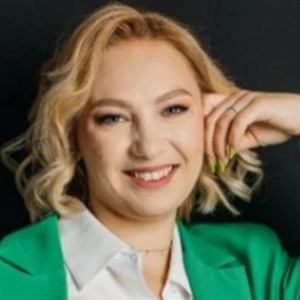
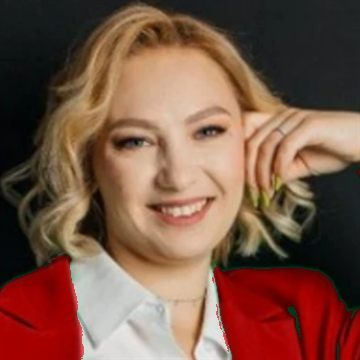
Add files via upload

Changed region(s): [[0.57, 0.72, 1.0, 1.0], [0.0, 0.69, 0.24, 1.0], [0.99, 0.45, 1.0, 0.51]]

diff --git a/invite/index.html b/invite/index.html
@@ -3,10 +3,10 @@
 <head>
 <meta charset="utf-8">
 <meta name="viewport" content="width=device-width, initial-scale=1, viewport-fit=cover">
-<title>Приглашение в Контент-дом</title>
-<meta name="description" content="Личное приглашение в Контент-дом от Антонины Алдатовой. Старт 2 ноября, 10 мест.">
-<meta property="og:title" content="Тебе приглашение в Контент-дом 🏡">
-<meta property="og:description" content="Личное приглашение от Антонины Алдатовой. Открой — твоя комната уже ждёт.">
+<title>Тебе посылка · Контент-дом</title>
+<meta name="description" content="Личная посылка от Антонины Алдатовой. Открой — внутри приглашение в Контент-дом.">
+<meta property="og:title" content="Тебе посылка 🎁">
+<meta property="og:description" content="Личная посылка от Антонины Алдатовой. Открой — внутри кое-что для тебя.">
 <meta property="og:image" content="https://antoninaal-cmyk.github.io/kontent-dom/hero.jpg">
 <meta property="og:type" content="website">
 <link rel="preconnect" href="https://fonts.googleapis.com">
@@ -14,117 +14,186 @@
 <style>
   :root{--black:#111010;--red:#C8161D;--red-d:#a50f15;--soft:#fdeeee;--bg:#F6F4F2;--grey:#6b6764;--shadow:0 6px 30px rgba(17,16,16,.08)}
   *{box-sizing:border-box;margin:0;padding:0}
-  html,body{min-height:100%}
-  body{font-family:Manrope,Arial,sans-serif;color:var(--black);background:radial-gradient(circle at 90% 4%,rgba(200,22,29,.16),rgba(200,22,29,0) 40%),radial-gradient(circle at 0% 100%,rgba(200,22,29,.08),rgba(200,22,29,0) 40%),var(--bg);overflow-x:hidden}
-  .wrap{max-width:560px;margin:0 auto;padding:22px 16px 40px;position:relative}
-  .top{display:flex;justify-content:space-between;align-items:center;margin-bottom:18px}
-  .name{font-family:'Amatic SC',sans-serif;font-weight:700;font-size:28px;letter-spacing:.5px;line-height:1}
-  .chip{font-size:11px;font-weight:800;letter-spacing:2px;text-transform:uppercase;color:var(--red);background:var(--soft);border-radius:999px;padding:8px 13px}
-  .card{background:#fff;border-radius:30px;box-shadow:var(--shadow);padding:28px 22px 26px;text-align:center;position:relative;animation:rise .9s cubic-bezier(.2,.8,.2,1) both}
-  @keyframes rise{from{opacity:0;transform:translateY(40px) scale(.97)}to{opacity:1;transform:none}}
-  .me{position:relative;width:190px;height:190px;margin:0 auto 18px}
-  .me .ring{position:absolute;inset:0;border-radius:50%;border:2.5px dashed var(--red);animation:spin 20s linear infinite}
-  .me .pic{position:absolute;inset:14px;border-radius:50%;overflow:hidden;border:6px solid #fff;box-shadow:0 14px 30px rgba(17,16,16,.16);background:#111;animation:float 4s ease-in-out infinite}
-  .me .pic img{width:100%;height:100%;object-fit:cover;object-position:50% 43%;transform:scale(2.1);transform-origin:57% 42%;display:block}
-  .stamp{position:absolute;left:-26px;bottom:-4px;width:86px;height:86px;border-radius:50%;background:var(--red);color:#fff;display:flex;align-items:center;justify-content:center;text-align:center;font-family:'Bad Script',cursive;font-size:17px;line-height:1.05;animation:wob 3s ease-in-out infinite;box-shadow:0 8px 18px rgba(200,22,29,.35)}
-  @keyframes wob{0%,100%{transform:rotate(-14deg)}50%{transform:rotate(-4deg) scale(1.06)}}
-  @keyframes spin{to{transform:rotate(360deg)}}
-  @keyframes float{0%,100%{transform:translateY(0)}50%{transform:translateY(-5px)}}
-  .duo{position:relative;display:flex;justify-content:center;align-items:center;margin:4px auto 22px;height:170px}
-  .duo .ph{width:150px;height:150px;border-radius:50%;overflow:hidden;border:6px solid #fff;box-shadow:0 14px 30px rgba(17,16,16,.16);background:#111;animation:float 4s ease-in-out infinite}
-  .duo .ph:first-child{margin-right:-18px;z-index:1;animation-delay:.6s}
-  .duo .ph img{width:100%;height:100%;object-fit:cover;display:block}
-  .duo .mine img{object-position:50% 43%;transform:scale(2.1);transform-origin:57% 42%}
-  .duo .link{position:absolute;left:50%;top:50%;transform:translate(-50%,-50%);z-index:3;width:46px;height:46px;border-radius:50%;background:var(--red);color:#fff;display:flex;align-items:center;justify-content:center;font-size:20px;box-shadow:0 6px 16px rgba(200,22,29,.4);animation:beat 1.3s ease-in-out infinite}
-  @keyframes beat{0%,100%{transform:translate(-50%,-50%) scale(1)}50%{transform:translate(-50%,-50%) scale(1.15)}}
-  .duo .stamp{left:auto;right:calc(50% - 175px);bottom:-14px;width:76px;height:76px;font-size:15px;z-index:4}
-  .hello{font-family:'Bad Script',cursive;color:var(--red);font-size:30px;line-height:1.2}
-  h1{font-family:'Cormorant Garamond',serif;font-weight:700;font-size:clamp(40px,11vw,54px);line-height:1;margin:6px 0 4px}
+  html,body{height:100%}
+  body{font-family:Manrope,Arial,sans-serif;color:var(--black);background:radial-gradient(circle at 90% 4%,rgba(200,22,29,.16),rgba(200,22,29,0) 40%),radial-gradient(circle at 0% 100%,rgba(200,22,29,.09),rgba(200,22,29,0) 40%),var(--bg);overflow-x:hidden}
+  .wrap{max-width:520px;margin:0 auto;padding:18px 16px 32px;min-height:100%;display:flex;flex-direction:column;position:relative;z-index:1}
+  .top{display:flex;justify-content:space-between;align-items:center}
+  .name{font-family:'Amatic SC',sans-serif;font-weight:700;font-size:28px;line-height:1}
+  .dots{display:flex;gap:6px}
+  .dots i{width:8px;height:8px;border-radius:50%;background:#e2dbd5;transition:all .3s}
+  .dots i.on{background:var(--red);width:22px;border-radius:99px}
+  .step{display:none;flex:1;flex-direction:column;justify-content:center;text-align:center;padding:18px 0}
+  .step.on{display:flex;animation:in .7s cubic-bezier(.2,.8,.2,1)}
+  @keyframes in{from{opacity:0;transform:translateY(24px)}to{opacity:1;transform:none}}
+  .script{font-family:'Bad Script',cursive;color:var(--red)}
+  h1{font-family:'Cormorant Garamond',serif;font-weight:700;font-size:clamp(38px,10vw,50px);line-height:1.02}
   h1 em{color:var(--red);font-style:italic}
-  .personal{display:none;margin:14px auto 4px;max-width:420px;background:var(--soft);border-radius:18px;padding:12px 16px;font-size:15.5px;line-height:1.5;color:#3b3836}
-  .lead{font-size:16px;line-height:1.6;color:#3b3836;margin:14px auto 18px;max-width:440px}
-  .room{font-family:'Bad Script',cursive;font-size:24px;color:var(--black);margin-bottom:18px}
-  .list{display:grid;grid-template-columns:1fr 1fr;gap:10px;margin:0 0 20px;text-align:left}
-  .list div{display:flex;gap:10px;align-items:flex-start;background:var(--bg);border-radius:14px;padding:11px 12px;font-size:14px;font-weight:600;line-height:1.35}
-  .list i{flex:0 0 24px;height:24px;border-radius:8px;background:var(--soft);color:var(--red);font-style:normal;font-weight:800;font-size:11px;display:flex;align-items:center;justify-content:center}
-  .list div{position:relative}
-  .list .hl{grid-column:1/-1;background:#fff;border:2px solid var(--red);box-shadow:0 8px 20px rgba(200,22,29,.15);font-size:15.5px;animation:hl 1.8s ease-in-out infinite}
-  .list .hl i{background:var(--red);color:#fff}
-  .list .for{position:absolute;top:-11px;right:12px;font-style:normal;font-size:11px;font-weight:800;letter-spacing:1px;text-transform:uppercase;color:#fff;background:var(--red);border-radius:999px;padding:4px 10px}
-  @keyframes hl{50%{box-shadow:0 8px 26px rgba(200,22,29,.30)}}
-  .when{display:inline-flex;align-items:center;gap:8px;font-size:14px;font-weight:800;margin-bottom:6px}
-  .when b{width:10px;height:10px;border-radius:50%;background:var(--red);animation:blink 1.1s infinite}
-  @keyframes blink{50%{opacity:.2}}
-  .price{font-family:'Cormorant Garamond',serif;font-weight:700;font-size:48px;color:var(--red);line-height:1}
-  .price s{font-size:26px;color:#9a9491;margin-right:6px}
-  .price small{font-family:Manrope,sans-serif;font-size:14px;color:var(--grey);font-weight:600}
-  .early{display:inline-block;margin:8px 0 22px;background:var(--red);color:#fff;font-size:13px;font-weight:800;border-radius:999px;padding:7px 14px}
-  .btn{display:flex;align-items:center;justify-content:center;gap:10px;width:100%;border-radius:999px;padding:19px 22px;font:800 17px Manrope,sans-serif;text-decoration:none;color:#fff;background:linear-gradient(135deg,#de2a31,var(--red) 55%,var(--red-d));position:relative;overflow:hidden;animation:pulse 1.6s ease-in-out infinite}
+  .btn{display:flex;align-items:center;justify-content:center;gap:10px;width:100%;border:0;border-radius:999px;padding:19px 22px;font:800 17px Manrope,sans-serif;text-decoration:none;color:#fff;cursor:pointer;background:linear-gradient(135deg,#de2a31,var(--red) 55%,var(--red-d));position:relative;overflow:hidden;animation:pulse 1.6s ease-in-out infinite}
   .btn::after{content:"";position:absolute;top:0;left:-60%;width:40%;height:100%;background:linear-gradient(90deg,transparent,rgba(255,255,255,.45),transparent);transform:skewX(-20deg);animation:shine 2.6s ease-in-out infinite}
   @keyframes pulse{0%,100%{box-shadow:0 8px 20px rgba(200,22,29,.30),0 0 0 0 rgba(200,22,29,.35)}50%{box-shadow:0 8px 20px rgba(200,22,29,.30),0 0 0 14px rgba(200,22,29,0)}}
   @keyframes shine{0%,55%{left:-60%}100%{left:130%}}
   .btn .arr{display:inline-block;animation:nudge 1.2s ease-in-out infinite}
   @keyframes nudge{50%{transform:translateX(5px)}}
-  .btn2{display:block;margin-top:10px;border-radius:999px;padding:15px;font-weight:700;font-size:15px;color:var(--black);text-decoration:none;background:var(--bg)}
-  .sign{margin-top:22px;font-family:'Bad Script',cursive;font-size:24px;color:var(--red)}
-  .spark{position:fixed;color:var(--red);pointer-events:none;animation:fall linear infinite;opacity:.0;z-index:0}
-  @keyframes fall{0%{transform:translateY(-10vh) rotate(0);opacity:0}10%{opacity:.8}100%{transform:translateY(110vh) rotate(180deg);opacity:0}}
-  .wrap>*{position:relative;z-index:1}
-  @media (prefers-reduced-motion:reduce){*,*::before,*::after{animation:none!important}}
+  .btn2{display:block;margin-top:10px;border-radius:999px;padding:15px;font-weight:700;font-size:15px;color:var(--black);text-decoration:none;background:#fff;box-shadow:var(--shadow)}
+
+  /* Шаг 1: посылка */
+  .to{font-family:'Bad Script',cursive;font-size:30px;color:var(--red);margin-bottom:6px}
+  .gift{position:relative;width:230px;height:230px;margin:26px auto 28px;cursor:pointer;-webkit-tap-highlight-color:transparent;animation:wiggle 2.4s ease-in-out infinite}
+  @keyframes wiggle{0%,70%,100%{transform:rotate(0)}75%{transform:rotate(-4deg)}80%{transform:rotate(4deg)}85%{transform:rotate(-3deg)}90%{transform:rotate(2deg)}}
+  .box{position:absolute;left:20px;right:20px;bottom:0;height:150px;border-radius:14px;background:#fff;box-shadow:0 18px 40px rgba(17,16,16,.14)}
+  .box::before{content:"";position:absolute;left:50%;top:0;bottom:0;width:30px;margin-left:-15px;background:var(--red)}
+  .lid{position:absolute;left:8px;right:8px;top:48px;height:46px;border-radius:12px;background:#fff;box-shadow:0 8px 18px rgba(17,16,16,.12);transition:transform .7s cubic-bezier(.3,1.4,.4,1),opacity .7s;z-index:2}
+  .lid::before{content:"";position:absolute;left:50%;top:0;bottom:0;width:30px;margin-left:-15px;background:var(--red)}
+  .bow{position:absolute;left:50%;top:6px;width:110px;height:52px;margin-left:-55px;z-index:3;transition:transform .7s cubic-bezier(.3,1.4,.4,1),opacity .7s}
+  .bow::before,.bow::after{content:"";position:absolute;top:0;width:52px;height:46px;border:9px solid var(--red);border-radius:50% 50% 10% 50%}
+  .bow::before{left:0;transform:rotate(-20deg)}
+  .bow::after{right:0;border-radius:50% 50% 50% 10%;transform:rotate(20deg)}
+  .knot{position:absolute;left:50%;top:40px;width:24px;height:22px;margin-left:-12px;background:var(--red-d);border-radius:7px;z-index:4;transition:opacity .4s}
+  .tag{position:absolute;right:-6px;bottom:30px;z-index:5;background:var(--black);color:#fff;font-family:'Bad Script',cursive;font-size:17px;padding:6px 12px;border-radius:10px;transform:rotate(8deg)}
+  .gift.open{animation:none}
+  .gift.open .lid{transform:translateY(-120px) rotate(-18deg);opacity:0}
+  .gift.open .bow{transform:translateY(-140px) rotate(14deg) scale(.8);opacity:0}
+  .gift.open .knot{opacity:0}
+  .hint{font-size:14px;font-weight:700;color:var(--grey);letter-spacing:.5px;animation:blink 1.4s ease-in-out infinite}
+  @keyframes blink{50%{opacity:.35}}
+  .burst{position:fixed;pointer-events:none;color:var(--red);font-size:20px;z-index:9;animation:fly 1.1s ease-out forwards}
+  @keyframes fly{from{transform:translate(0,0) scale(.4);opacity:1}to{transform:translate(var(--dx),var(--dy)) scale(1.2) rotate(160deg);opacity:0}}
+
+  /* Шаг 2: письмо */
+  .duo{position:relative;display:flex;justify-content:center;align-items:center;margin:4px auto 18px;height:160px}
+  .duo .ph{width:146px;height:146px;border-radius:50%;overflow:hidden;border:6px solid #fff;box-shadow:0 14px 30px rgba(17,16,16,.16);background:#111;animation:float 4s ease-in-out infinite}
+  .duo .ph:first-child{margin-right:-16px;z-index:1;animation-delay:.6s}
+  .duo .ph img{width:100%;height:100%;object-fit:cover;display:block}
+  .duo .mine img{object-position:50% 43%;transform:scale(2.1);transform-origin:57% 42%}
+  .duo .link{position:absolute;left:50%;top:50%;transform:translate(-50%,-50%);z-index:3;width:44px;height:44px;border-radius:50%;background:var(--red);color:#fff;display:flex;align-items:center;justify-content:center;font-size:19px;box-shadow:0 6px 16px rgba(200,22,29,.4);animation:beat 1.3s ease-in-out infinite}
+  @keyframes beat{0%,100%{transform:translate(-50%,-50%) scale(1)}50%{transform:translate(-50%,-50%) scale(1.15)}}
+  @keyframes float{0%,100%{transform:translateY(0)}50%{transform:translateY(-5px)}}
+  .letter{background:#fff;border-radius:24px;box-shadow:var(--shadow);padding:26px 22px 22px;text-align:left;position:relative;margin:16px 0 22px}
+  .letter::before{content:"";position:absolute;left:0;right:0;top:0;height:6px;border-radius:24px 24px 0 0;background:repeating-linear-gradient(90deg,var(--red) 0 18px,#fff 18px 26px,var(--black) 26px 44px,#fff 44px 52px)}
+  .letter .hi{font-family:'Bad Script',cursive;font-size:28px;color:var(--red);margin-bottom:8px}
+  .letter p{font-size:16px;line-height:1.65;color:#3b3836;margin-bottom:12px}
+  .letter .sign{font-family:'Bad Script',cursive;font-size:24px;color:var(--black);text-align:right;margin-top:6px}
+
+  /* Шаг 3: ключ */
+  .key{font-size:64px;line-height:1;margin:6px auto 10px;animation:turn 2.2s ease-in-out infinite;display:inline-block}
+  @keyframes turn{0%,100%{transform:rotate(-12deg)}50%{transform:rotate(12deg)}}
+  .keycard{background:#fff;border-radius:24px;box-shadow:var(--shadow);padding:22px 18px;margin:18px 0 20px;text-align:left}
+  .item{display:flex;gap:12px;align-items:flex-start;padding:11px 12px;border-radius:14px;font-size:15px;font-weight:600;line-height:1.4;position:relative}
+  .item+.item{margin-top:6px}
+  .item i{flex:0 0 26px;height:26px;border-radius:8px;background:var(--soft);color:var(--red);font-style:normal;font-weight:800;font-size:12px;display:flex;align-items:center;justify-content:center}
+  .item.hl{border:2px solid var(--red);background:#fff9f9;box-shadow:0 8px 20px rgba(200,22,29,.14)}
+  .item.hl i{background:var(--red);color:#fff}
+  .item .for{position:absolute;top:-10px;right:12px;font-style:normal;font-size:10.5px;font-weight:800;letter-spacing:1px;text-transform:uppercase;color:#fff;background:var(--red);border-radius:999px;padding:3px 9px}
+  .when{display:flex;justify-content:center;align-items:center;gap:8px;font-size:14px;font-weight:800;margin:4px 0 6px}
+  .when b{width:10px;height:10px;border-radius:50%;background:var(--red);animation:blink 1.1s infinite}
+  .price{font-family:'Cormorant Garamond',serif;font-weight:700;font-size:48px;color:var(--red);line-height:1}
+  .price s{font-size:26px;color:#9a9491;margin-right:6px}
+  .price small{font-family:Manrope,sans-serif;font-size:14px;color:var(--grey);font-weight:600}
+  .early{display:inline-block;margin:8px 0 20px;background:var(--red);color:#fff;font-size:13px;font-weight:800;border-radius:999px;padding:7px 14px}
+  .spark{position:fixed;color:var(--red);pointer-events:none;animation:fall linear infinite;opacity:0;z-index:0}
+  @keyframes fall{0%{transform:translateY(-10vh) rotate(0);opacity:0}10%{opacity:.7}100%{transform:translateY(110vh) rotate(180deg);opacity:0}}
+  @media (prefers-reduced-motion:reduce){*,*::before,*::after{animation:none!important;transition:none!important}}
 </style>
 </head>
 <body>
 <div class="wrap">
-  <div class="top"><span class="name">Антонина Алдатова</span><span class="chip">Личное приглашение</span></div>
-  <div class="card">
-    <div class="me"><div class="ring"></div><div class="pic"><img src="../hero.jpg" alt="Антонина Алдатова"></div><div class="stamp">двери<br>открыты</div></div>
-    <div class="hello" id="hello">Привет!</div>
-    <h1>Приглашаю тебя<br>в <em>Контент-дом</em></h1>
-    <div class="personal" id="personal"></div>
-    <p class="lead">Пространство, где мы каждый месяц делаем блог вместе: упаковываем профиль, создаём контент со смыслом и учимся работать с нейросетями. Без гонки за идеальностью — и без «разберусь когда-нибудь».</p>
-    <div class="room">Твоя комната уже ждёт ✦</div>
-    <div class="list">
-      <div data-k="1"><i>01</i>4 онлайн-встречи в живом формате — мастермайнды</div>
-      <div data-k="2"><i>02</i>Уроки и задания с результатом</div>
-      <div data-k="3"><i>03</i>Свой ИИ-помощник</div>
-      <div data-k="4"><i>04</i>Чат и поддержка</div>
+  <div class="top"><span class="name">Антонина Алдатова</span><span class="dots"><i class="on"></i><i></i><i></i></span></div>
+
+  <!-- 1. Посылка -->
+  <section class="step on" id="s1">
+    <div class="to" id="toLine">Тебе посылка!</div>
+    <h1>Кое-что <em>только для тебя</em></h1>
+    <div class="gift" id="gift" role="button" aria-label="Открыть посылку">
+      <div class="bow"></div><div class="knot"></div><div class="lid"></div><div class="box"></div>
+      <div class="tag" id="tag">от Антонины</div>
+    </div>
+    <div class="hint">нажми на коробку, чтобы открыть</div>
+  </section>
+
+  <!-- 2. Письмо -->
+  <section class="step" id="s2">
+    <div class="duo" id="duo"><div class="ph mine" style="margin:0"><img src="../hero.jpg" alt="Антонина Алдатова"></div></div>
+    <div class="letter">
+      <div class="hi" id="hello">Привет!</div>
+      <p id="pers">Я давно хотела позвать тебя в одно место.</p>
+      <p>Я открываю <b>Контент-дом</b> — пространство, где мы каждый месяц делаем блог вместе: упаковываем профиль, создаём контент со смыслом и учимся работать с нейросетями. Без гонки за идеальностью — и без «разберусь когда-нибудь».</p>
+      <p>Мне очень хочется, чтобы ты была в первой группе.</p>
+      <div class="sign">С теплом, Антонина</div>
+    </div>
+    <button class="btn" id="to3">Что ещё в посылке? <span class="arr">→</span></button>
+  </section>
+
+  <!-- 3. Ключ от дома -->
+  <section class="step" id="s3">
+    <div><span class="key">🗝</span></div>
+    <h1>Твой ключ<br>от <em>Контент-дома</em></h1>
+    <div class="keycard">
+      <div class="item" data-k="1"><i>01</i>4 онлайн-встречи в живом формате — мастермайнды</div>
+      <div class="item" data-k="2"><i>02</i>Уроки и задания с понятным результатом</div>
+      <div class="item" data-k="3"><i>03</i>Свой ИИ-помощник, который пишет твоим голосом</div>
+      <div class="item" data-k="4"><i>04</i>Чат и поддержка — чтобы не сливаться</div>
     </div>
     <div class="when"><b></b>Старт 2 ноября · 10 мест</div>
     <div class="price"><s>12 000 ₽</s>9 890 ₽ <small>/ месяц</small></div>
-    <div class="early">🔥 при оплате до 26 октября</div>
+    <div><span class="early">🔥 при оплате до 26 октября</span></div>
     <a class="btn" href="../?v=2">Заглянуть в Дом <span class="arr">→</span></a>
     <a class="btn2" href="https://t.me/antonina_aldatova" target="_blank" rel="noopener">Написать мне «ДОМ» в Telegram</a>
-    <div class="sign">С любовью, Антонина</div>
-  </div>
+  </section>
 </div>
+
 <script>
-  // Личные открытки: короткая ссылка .../invite/?id=natalia
+  // Личные посылки: короткая ссылка .../invite/?id=natalia
   const PEOPLE = {
-    natalia: {to: 'Наталья', hi: '1', photo: 'natalia.jpg', p: 'Наталья, ты психолог-наставник по проявленности, автор игры «Моя игра» и собираешь людей на классных мероприятиях по КМВ и Ставрополью. Тебе откликнулись мастермайнды — в Доме они каждую неделю: ставим цели, разбираем задачи и растём вместе.'}
+    natalia: {to: 'Наталья', to2: 'Наталье', hi: '1', photo: 'natalia.jpg',
+      p: 'Ты психолог-наставник по проявленности, автор игры «Моя игра» и собираешь людей на классных мероприятиях по КМВ и Ставрополью. Я знаю, что тебе откликнулись мастермайнды — в Доме они каждую неделю: ставим цели, разбираем задачи и растём вместе.'}
   };
   const q = new URLSearchParams(location.search);
   const person = PEOPLE[(q.get('id') || '').toLowerCase()] || {};
-  if (person.hi && !q.get('hi')) q.set('hi', person.hi);
-  const clean = s => (s || '').replace(/[<>]/g, '').trim().slice(0, 360);
+  const clean = s => (s || '').replace(/[<>]/g, '').trim().slice(0, 400);
   const to = clean(person.to || q.get('to')), p = clean(person.p || q.get('p'));
+  const hi = (person.hi || q.get('hi') || '').replace(/\D/g, '');
+
   if (to) {
+    document.getElementById('toLine').textContent = (person.to2 || to) + ' — посылка!';
     document.getElementById('hello').textContent = to + ', привет!';
-    document.title = to + ', приглашение в Контент-дом';
+    document.title = to + ', тебе посылка';
   }
+  if (p) document.getElementById('pers').textContent = p;
   if (person.photo) {
-    const me = document.querySelector('.me');
-    me.outerHTML = '<div class="duo"><div class="ph"><img src="' + person.photo + '" alt=""></div><span class="link">✦</span><div class="ph mine"><img src="../hero.jpg" alt="Антонина Алдатова"></div><div class="stamp">двери<br>открыты</div></div>';
+    document.getElementById('duo').innerHTML = '<div class="ph"><img src="' + person.photo + '" alt=""></div><span class="link">✦</span><div class="ph mine"><img src="../hero.jpg" alt="Антонина Алдатова"></div>';
   }
-  if (p) { const el = document.getElementById('personal'); el.textContent = p; el.style.display = 'block'; }
-  const hi = (q.get('hi') || '').replace(/\D/g, '');
-  if (hi) { const it = document.querySelector('.list [data-k="' + hi + '"]'); if (it) { it.classList.add('hl'); it.insertAdjacentHTML('beforeend', '<em class="for">для тебя</em>'); } }
-  for (let i = 0; i < 14; i++) {
-    const s = document.createElement('span');
-    s.className = 'spark'; s.textContent = '✦';
-    s.style.left = Math.random() * 100 + 'vw';
-    s.style.fontSize = (10 + Math.random() * 14) + 'px';
-    s.style.animationDuration = (7 + Math.random() * 8) + 's';
-    s.style.animationDelay = (Math.random() * 8) + 's';
+  if (hi) {
+    const it = document.querySelector('.item[data-k="' + hi + '"]');
+    if (it) { it.classList.add('hl'); it.insertAdjacentHTML('beforeend', '<em class="for">для тебя</em>'); }
+  }
+
+  const steps = [...document.querySelectorAll('.step')], dots = [...document.querySelectorAll('.dots i')];
+  function go(n){ steps.forEach((s,i)=>s.classList.toggle('on', i===n)); dots.forEach((d,i)=>d.classList.toggle('on', i<=n)); window.scrollTo({top:0}); }
+
+  function burst(x, y){
+    for (let i = 0; i < 18; i++) {
+      const s = document.createElement('span'); s.className = 'burst'; s.textContent = '✦';
+      const a = Math.random() * Math.PI * 2, d = 80 + Math.random() * 120;
+      s.style.left = x + 'px'; s.style.top = y + 'px';
+      s.style.setProperty('--dx', Math.cos(a) * d + 'px'); s.style.setProperty('--dy', Math.sin(a) * d + 'px');
+      s.style.color = i % 3 ? '#C8161D' : '#111010';
+      document.body.appendChild(s); setTimeout(() => s.remove(), 1200);
+    }
+  }
+  const gift = document.getElementById('gift');
+  gift.addEventListener('click', () => {
+    if (gift.classList.contains('open')) return;
+    gift.classList.add('open');
+    const r = gift.getBoundingClientRect(); burst(r.left + r.width / 2, r.top + r.height / 2);
+    setTimeout(() => go(1), 900);
+  });
+  document.getElementById('to3').addEventListener('click', () => go(2));
+  const st = parseInt(q.get('step'), 10); if (st >= 2 && st <= 3) go(st - 1);
+
+  for (let i = 0; i < 12; i++) {
+    const s = document.createElement('span'); s.className = 'spark'; s.textContent = '✦';
+    s.style.left = Math.random() * 100 + 'vw'; s.style.fontSize = (10 + Math.random() * 12) + 'px';
+    s.style.animationDuration = (8 + Math.random() * 8) + 's'; s.style.animationDelay = (Math.random() * 8) + 's';
     document.body.appendChild(s);
   }
 </script>
